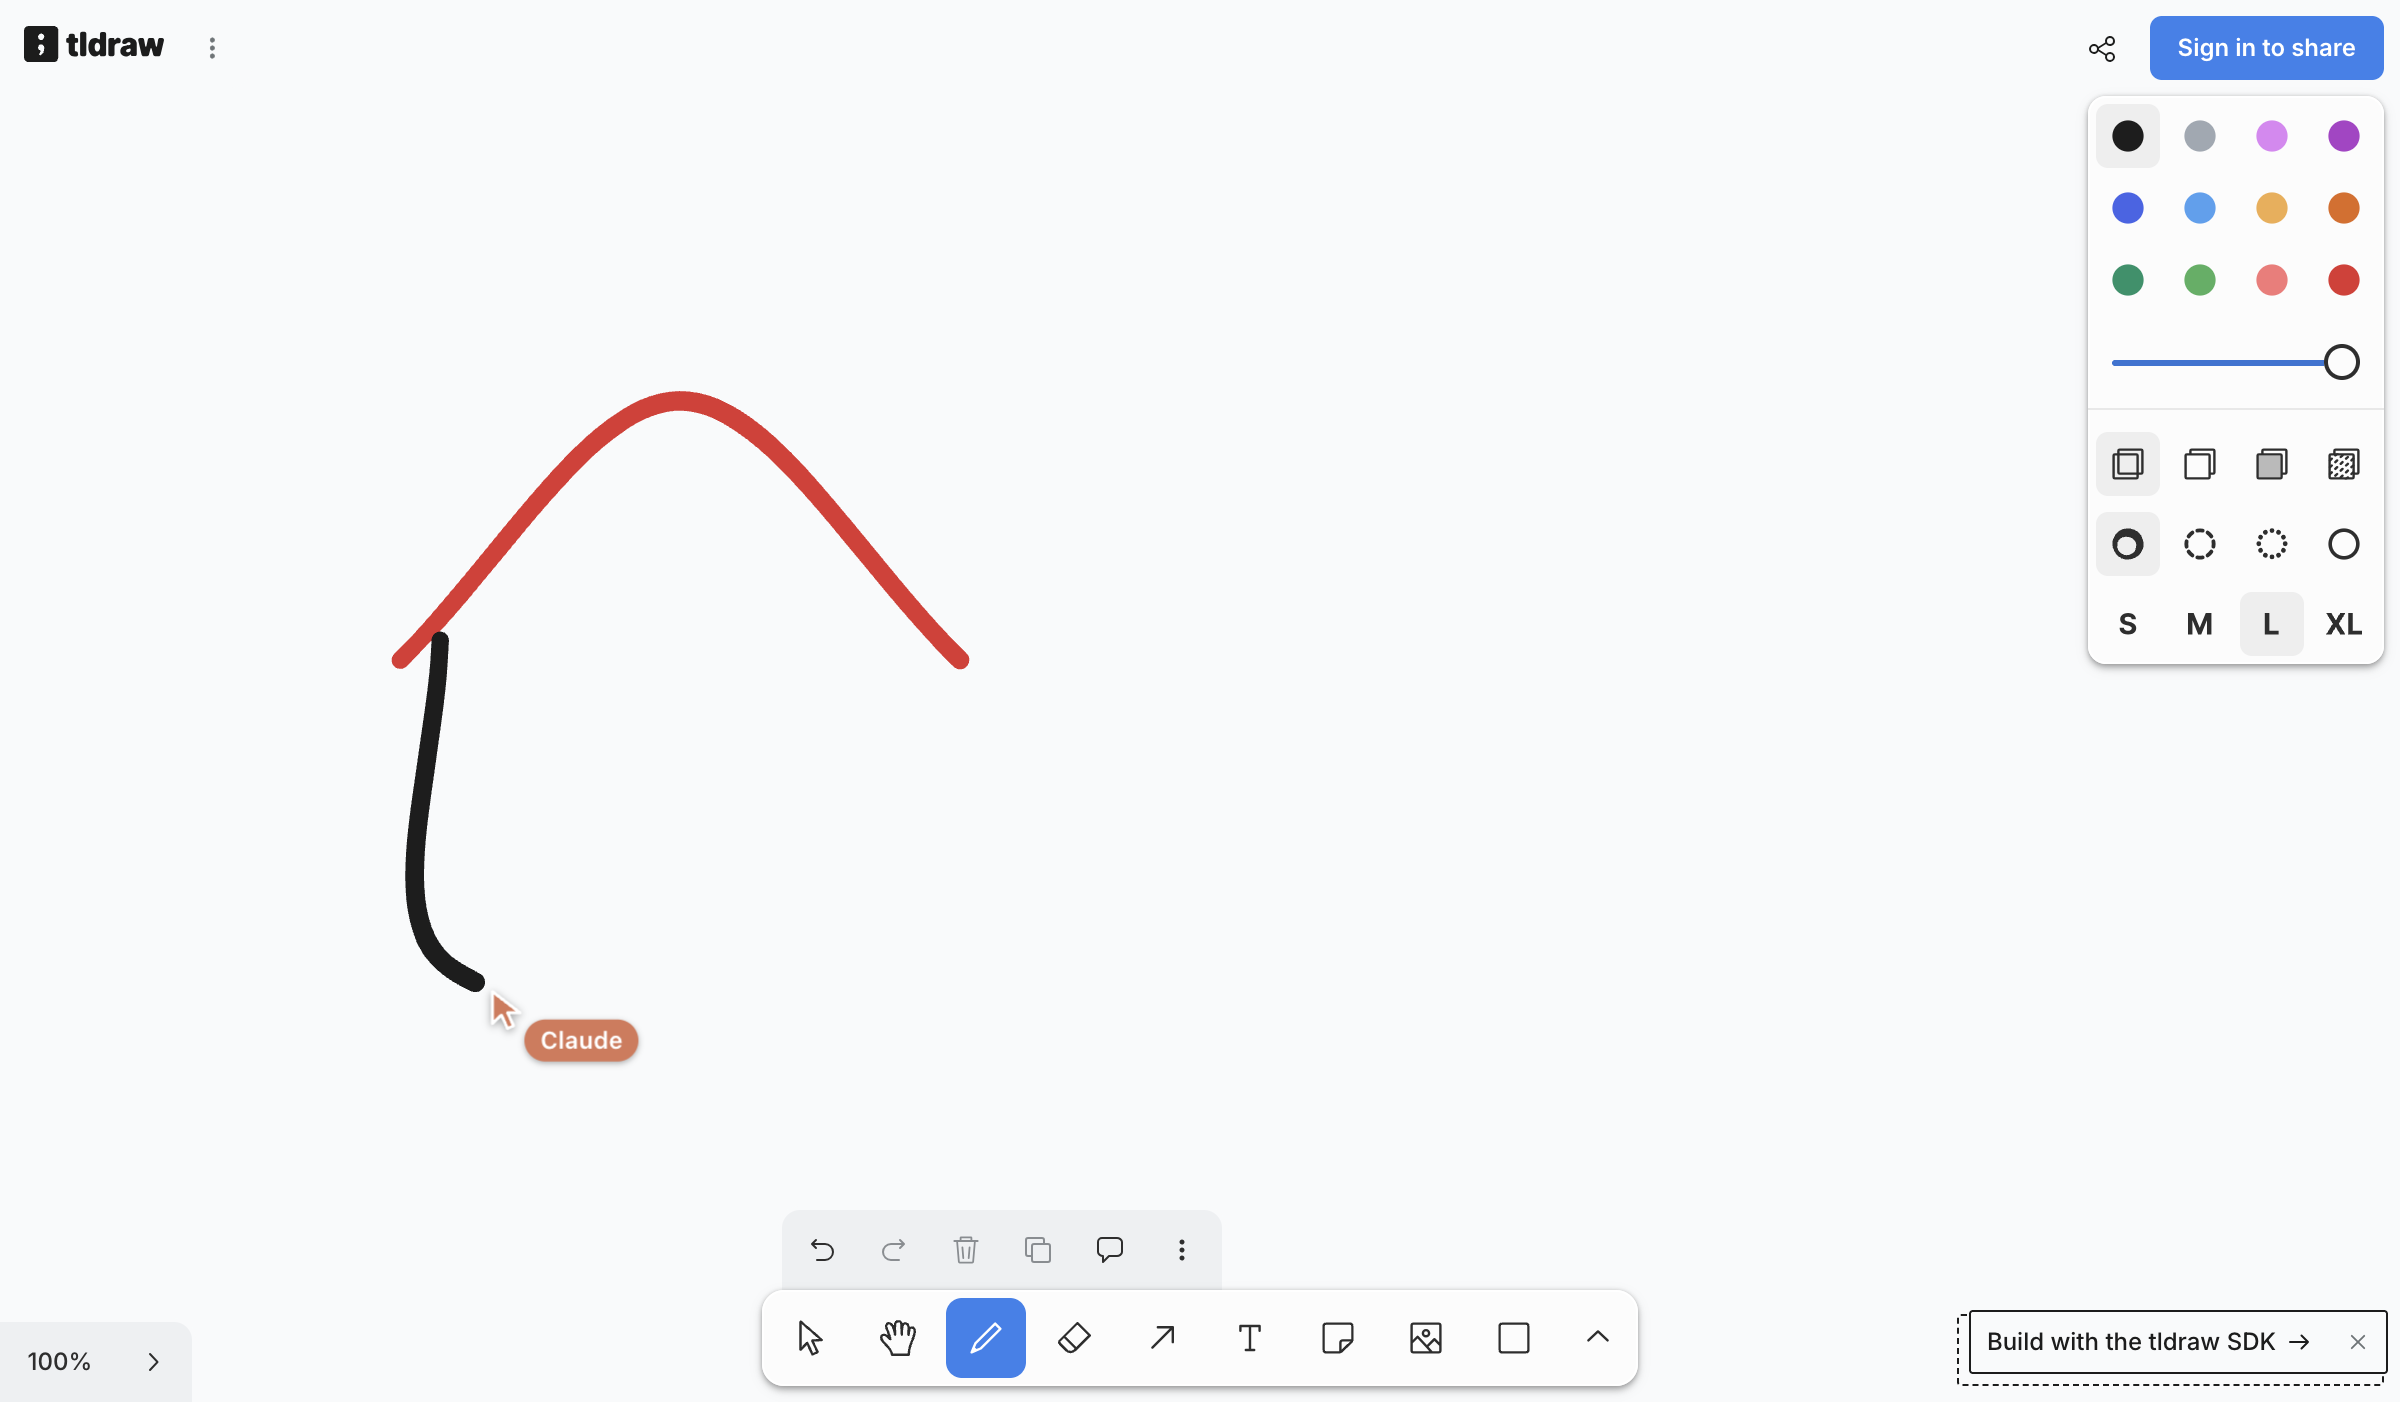
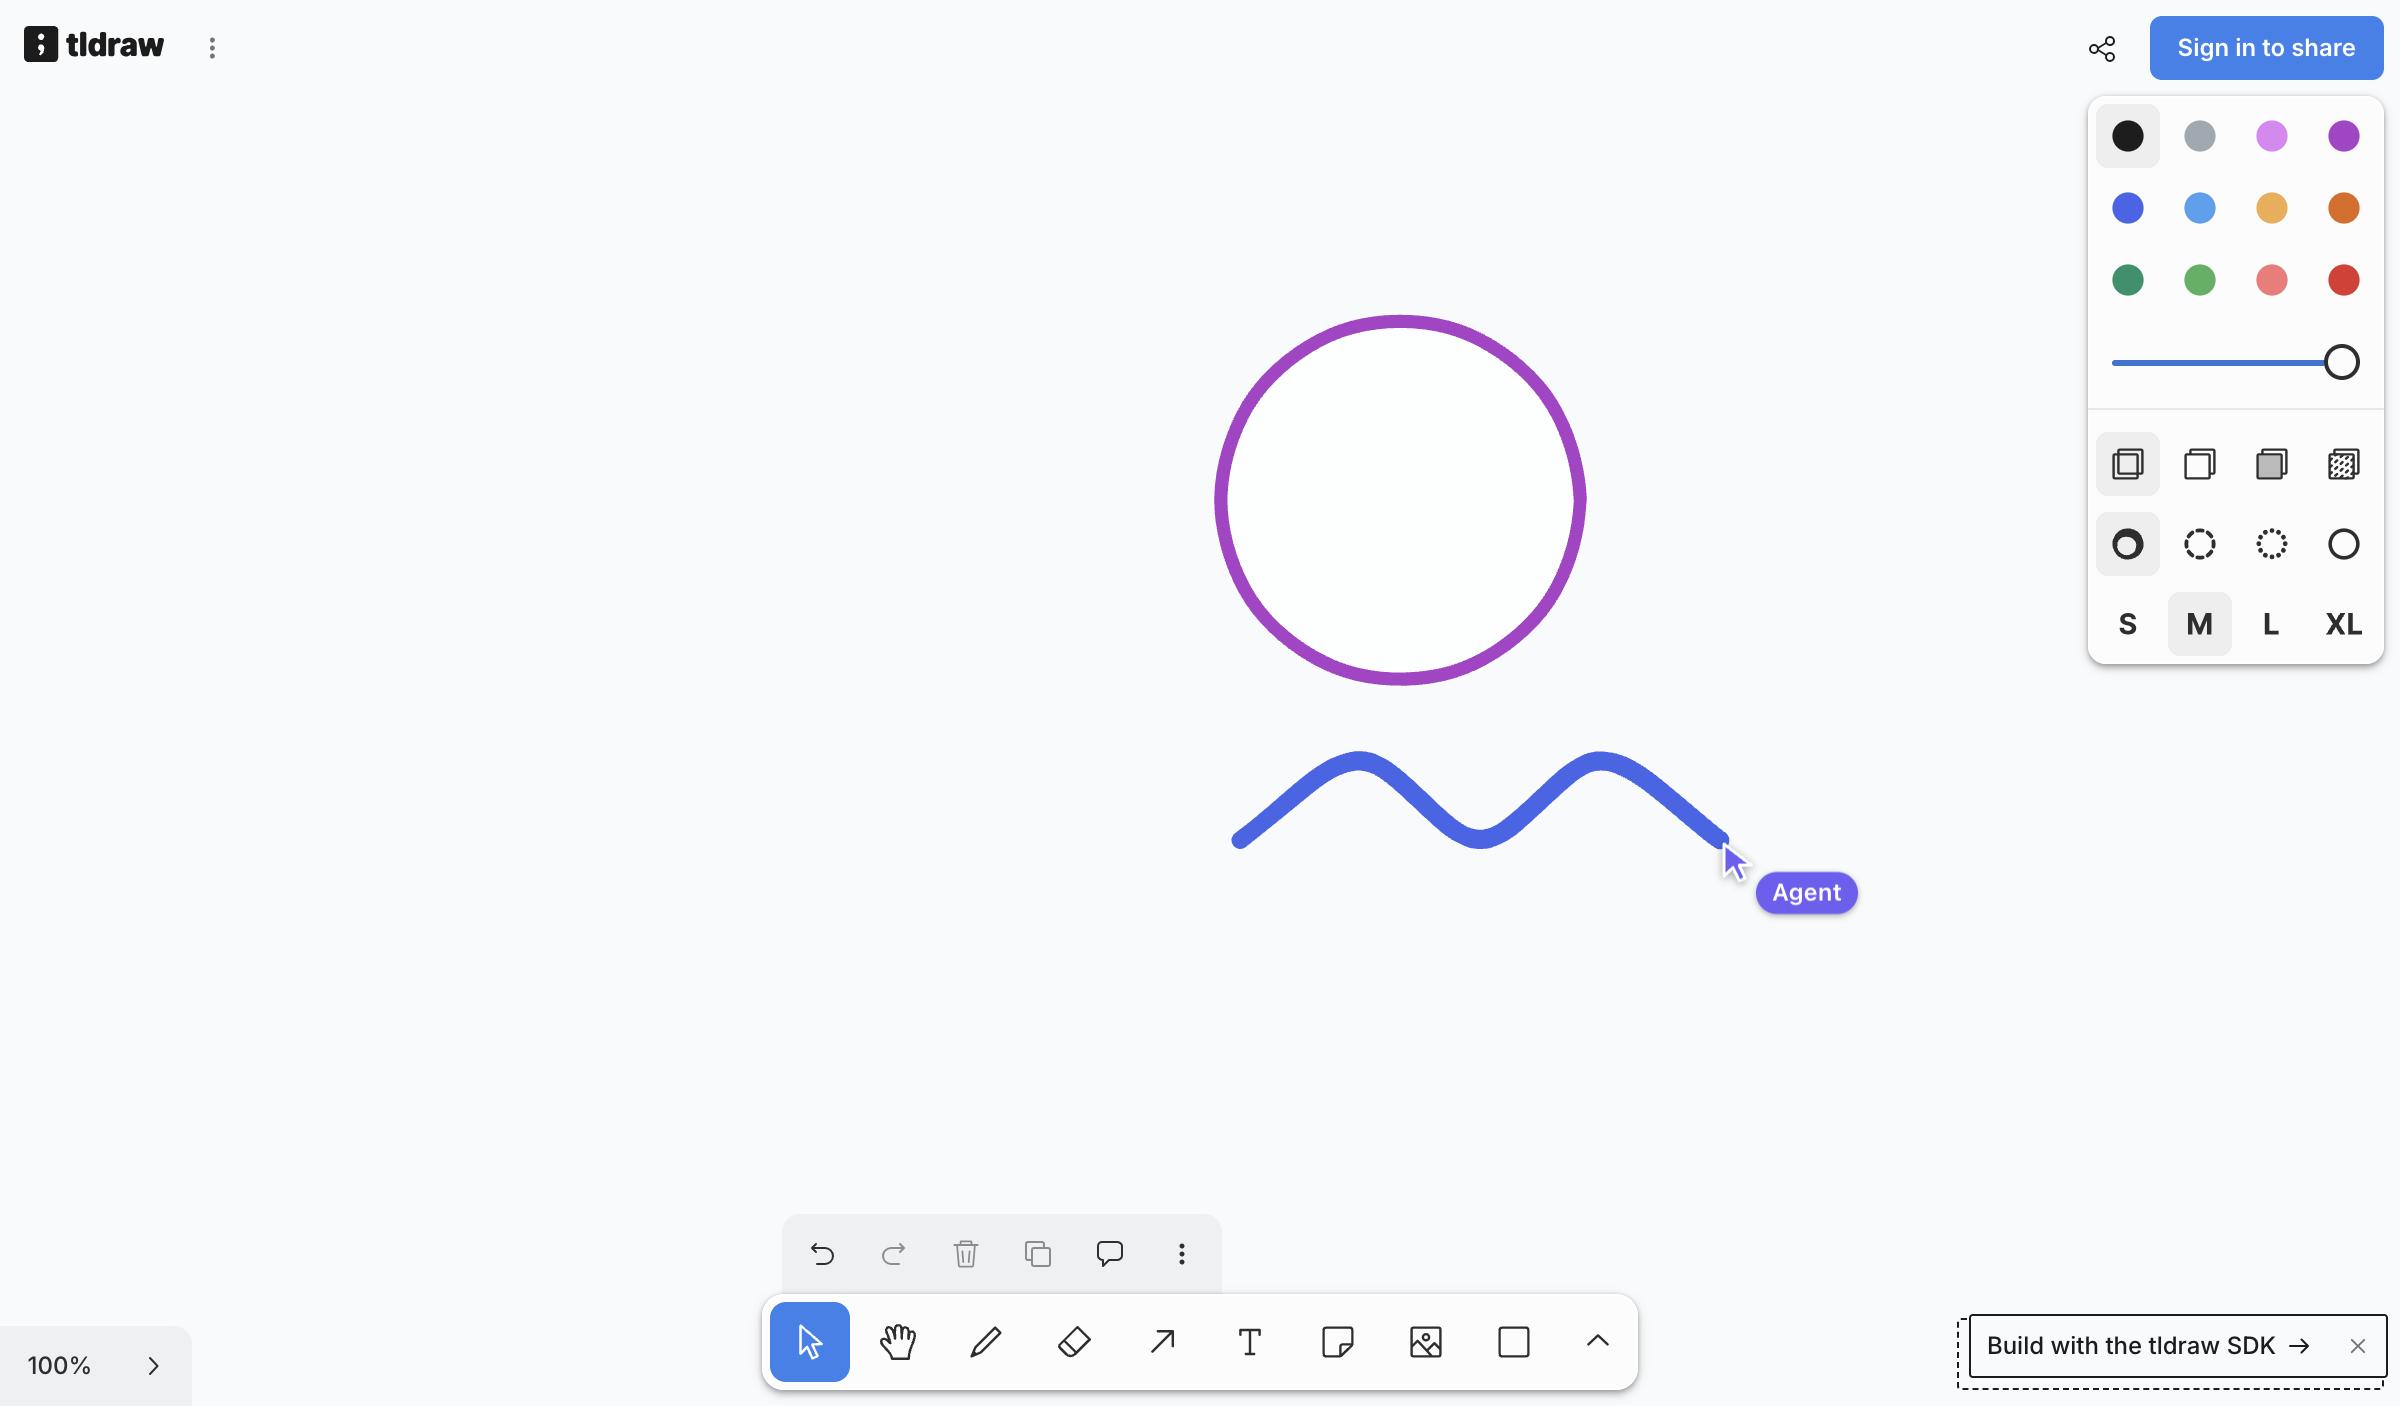
Document the agent skill and accurate tool behaviour

diff --git a/README.md b/README.md
@@ -2,7 +2,7 @@
 
 A Chrome extension that turns an **already-open tldraw.com tab** into a WebMCP server, so an AI agent can draw with the pen, highlighter and eraser and create, edit, arrange and export shapes.
 
-Verified 2026-11-02 against tldraw.com in Chrome 154: `node eval/run-eval.mjs` passes **15/15**. Output: `eval/final-scene.png`.
+Verified 2026-11-02 against tldraw.com in Chrome 154: `node eval/run-eval.mjs` passes **18/18**. Output: `eval/final-scene.png`.
 
 ## How it works
 
@@ -25,16 +25,24 @@ draw strokes in a compressed base64 path format that changes between versions.
 |---|---|
 | `tldraw_get_canvas` | Viewport (page coords), camera, tool, selection, every shape summarized. Read-only. |
 | `tldraw_draw_strokes` | Freehand strokes: `draw` (pen), `highlight`, `eraser`, `laser`. Points `[x,y]` or `[x,y,pressure]` (stylus). Color, size, dash, fill, closed. |
-| `tldraw_pen` | **Pen mode.** A few control points per stroke become a smooth curve (centripetal Catmull-Rom), drawn in real time while a labelled agent cursor glides between strokes and follows the pen. `speed`, `smooth` (call-wide or per stroke), `label`. |
+| `tldraw_pen` | **Pen mode.** A few control points per stroke become a smooth curve (centripetal Catmull-Rom), drawn in real time while a labelled agent cursor glides between strokes and follows the pen. `speed`, `smooth` (call-wide or per stroke), `label` (default "Agent"). |
 | `tldraw_create_shapes` | `geo` (20 kinds: rectangle, ellipse, star, …, with labels), `text`, `note`, `frame`, `line` (straight/cubic), `arrow` (bound to shapes, so it follows when they move). |
 | `tldraw_update_shapes` | Move, resize, rotate, recolor, relabel. |
-| `tldraw_delete_shapes` | By ids, `"all"` or `"selected"`. |
+| `tldraw_delete_shapes` | By ids, `"all"` or `"selected"`. Marked consequential (`consequentialHint`) so agents can confirm first. |
 | `tldraw_arrange` | select, group, ungroup, align, distribute, bring_to_front, send_to_back. |
 | `tldraw_view` | zoom_to_fit, zoom_to_shapes, set_camera, reset_zoom. |
-| `tldraw_history` | undo / redo (each tool call is one undo step). |
+| `tldraw_history` | undo / redo. One step per create/update/delete/arrange call, one per stroke for drawing tools. The stack is shared with the user. |
 | `tldraw_export_svg` | SVG of the drawing, so the agent can check its own work. |
 
 Style enums are read from the live editor at registration time, so the schemas match the running tldraw version.
+Every description states its coordinate system, return shape and failure behaviour, and the harder tools include an
+example input, so smaller models can call them without trial and error.
+
+### Agent skill
+
+[`skills/tldraw-webmcp/SKILL.md`](skills/tldraw-webmcp/SKILL.md) teaches an agent the workflow (look → plan →
+draw → check → show), which tool to pick, sizing rules and recipes (flowcharts, circles, sticky boards). Drop the
+folder into `.claude/skills/` (or your agent's skill or prompt directory). It is also attached to every release.
 
 ### Pen mode
 
